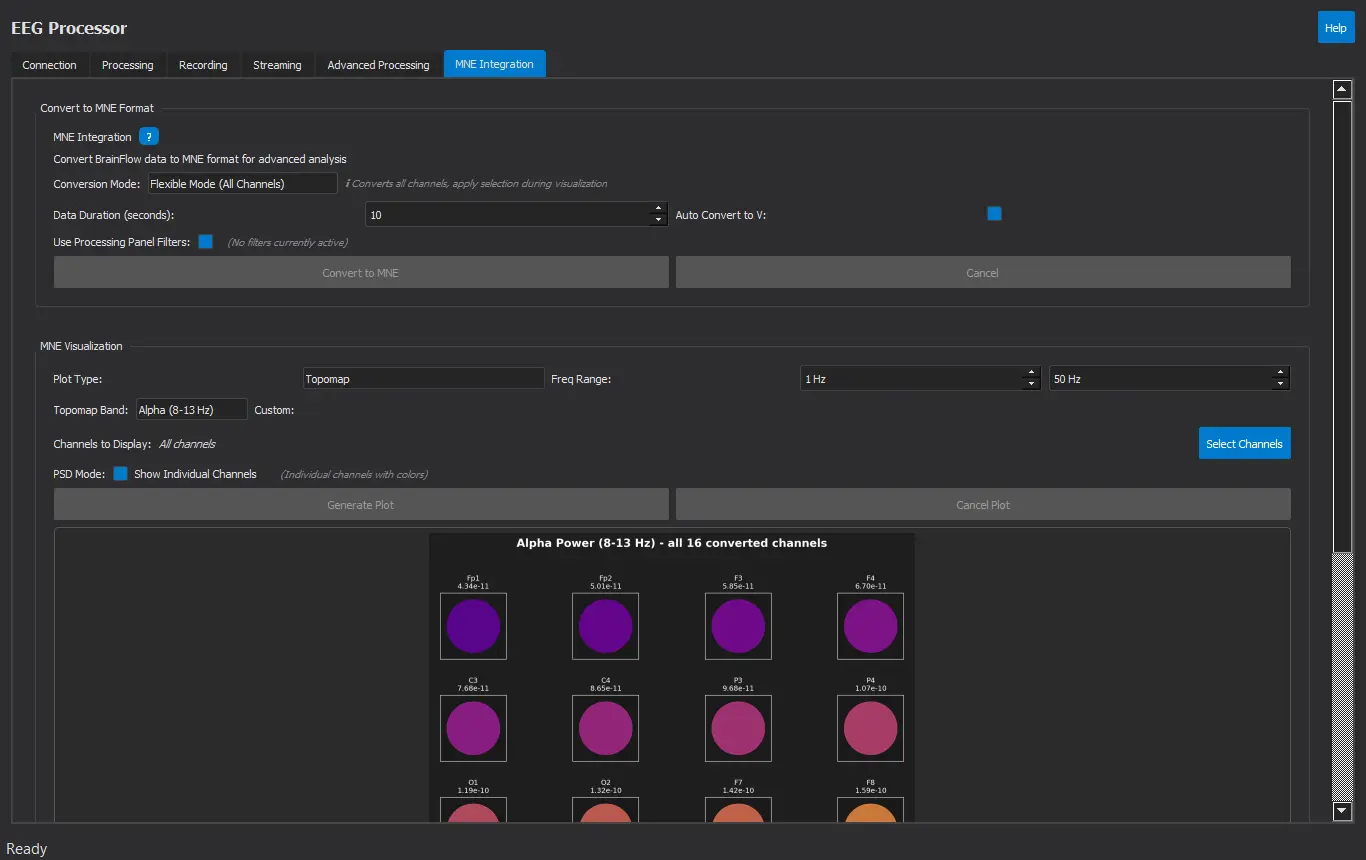
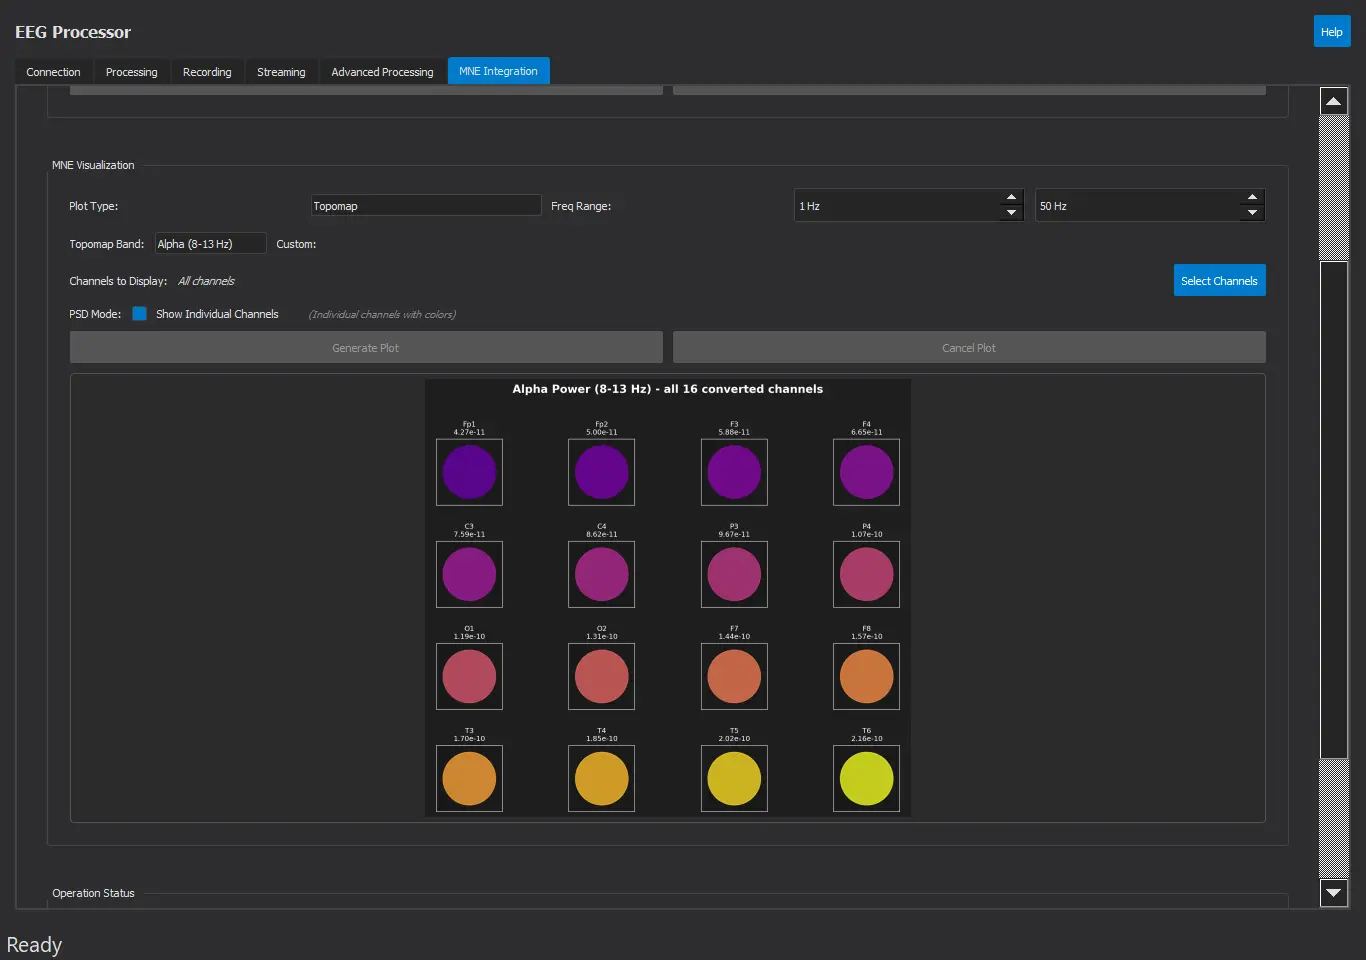
Adjust MNE viewport framing and add web real-time signal visualizer

diff --git a/README.md b/README.md
@@ -56,10 +56,15 @@ The framework bridges raw BrainFlow ring-buffers directly into `MNE-Python` scie
 | Interactive gamepad visualizer with analog stick tracking & button state overlays | Real-time keydown/keyup listener, mouse delta logging, and microsecond timestamps |
 
 ### 5. Remote Streaming & Terminal Environments
-| Dynamic Web API Explorer (FastAPI) | Interactive Terminal CLI (Rich & Typer) |
+| Web Real-Time Signal Visualizer (Chart.js) | Dynamic Web API Explorer (FastAPI) |
 |:---:|:---:|
-| <img src="assets/screenshots/web_api_explorer.webp" width="460" alt="FastAPI Web Explorer"> | <img src="assets/screenshots/cli_interactive_terminal.webp" width="460" alt="Interactive CLI Terminal"> |
-| Dark-mode browser dashboard with WebSocket telemetry and dynamic API testing | Headless REPL shell with Rich telemetry tables for remote server deployments |
+| <img src="assets/screenshots/web_api_signal_visualizer.webp" width="460" alt="Web Real-Time Signal Streaming Visualizer"> | <img src="assets/screenshots/web_api_explorer.webp" width="460" alt="FastAPI Web Explorer"> |
+| In-browser multi-channel biosignal streaming over WebSockets with live Chart.js waveforms | Dark-mode interactive dashboard with dynamic REST endpoint testing and parameter inspection |
+
+| Interactive Terminal CLI (Rich & Typer) |
+|:---:|
+| <img src="assets/screenshots/cli_interactive_terminal.webp" width="700" alt="Interactive CLI Terminal"> |
+| Headless REPL shell and live status tables with Rich telemetry for server and headless deployments |
 
 ---
 
